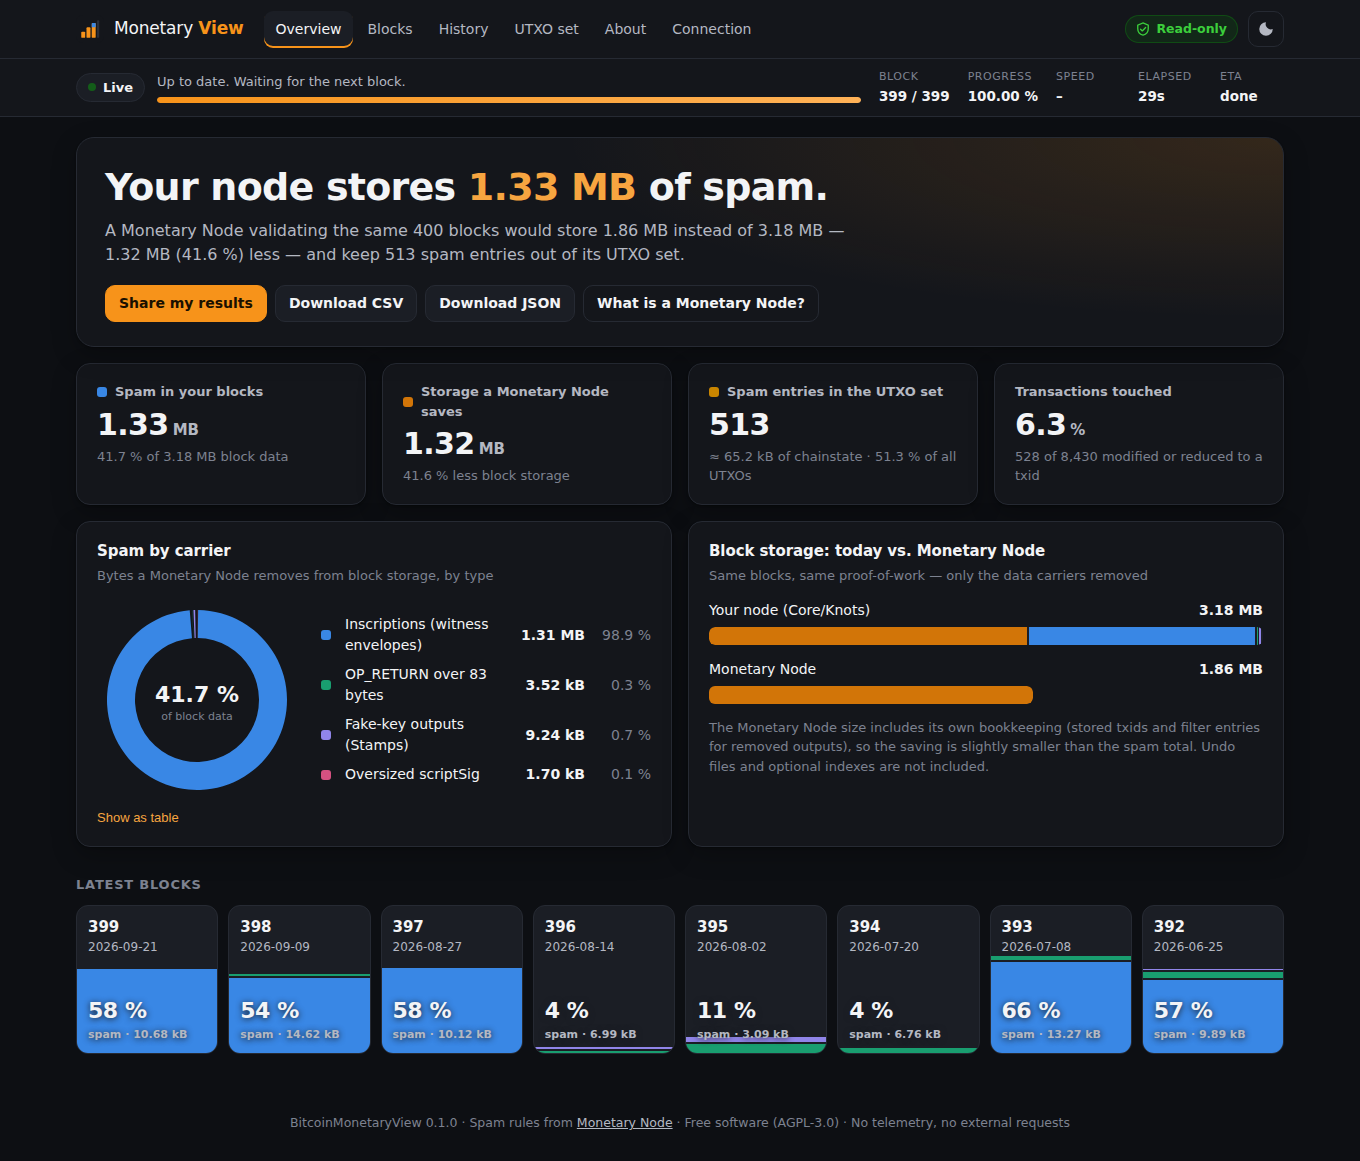
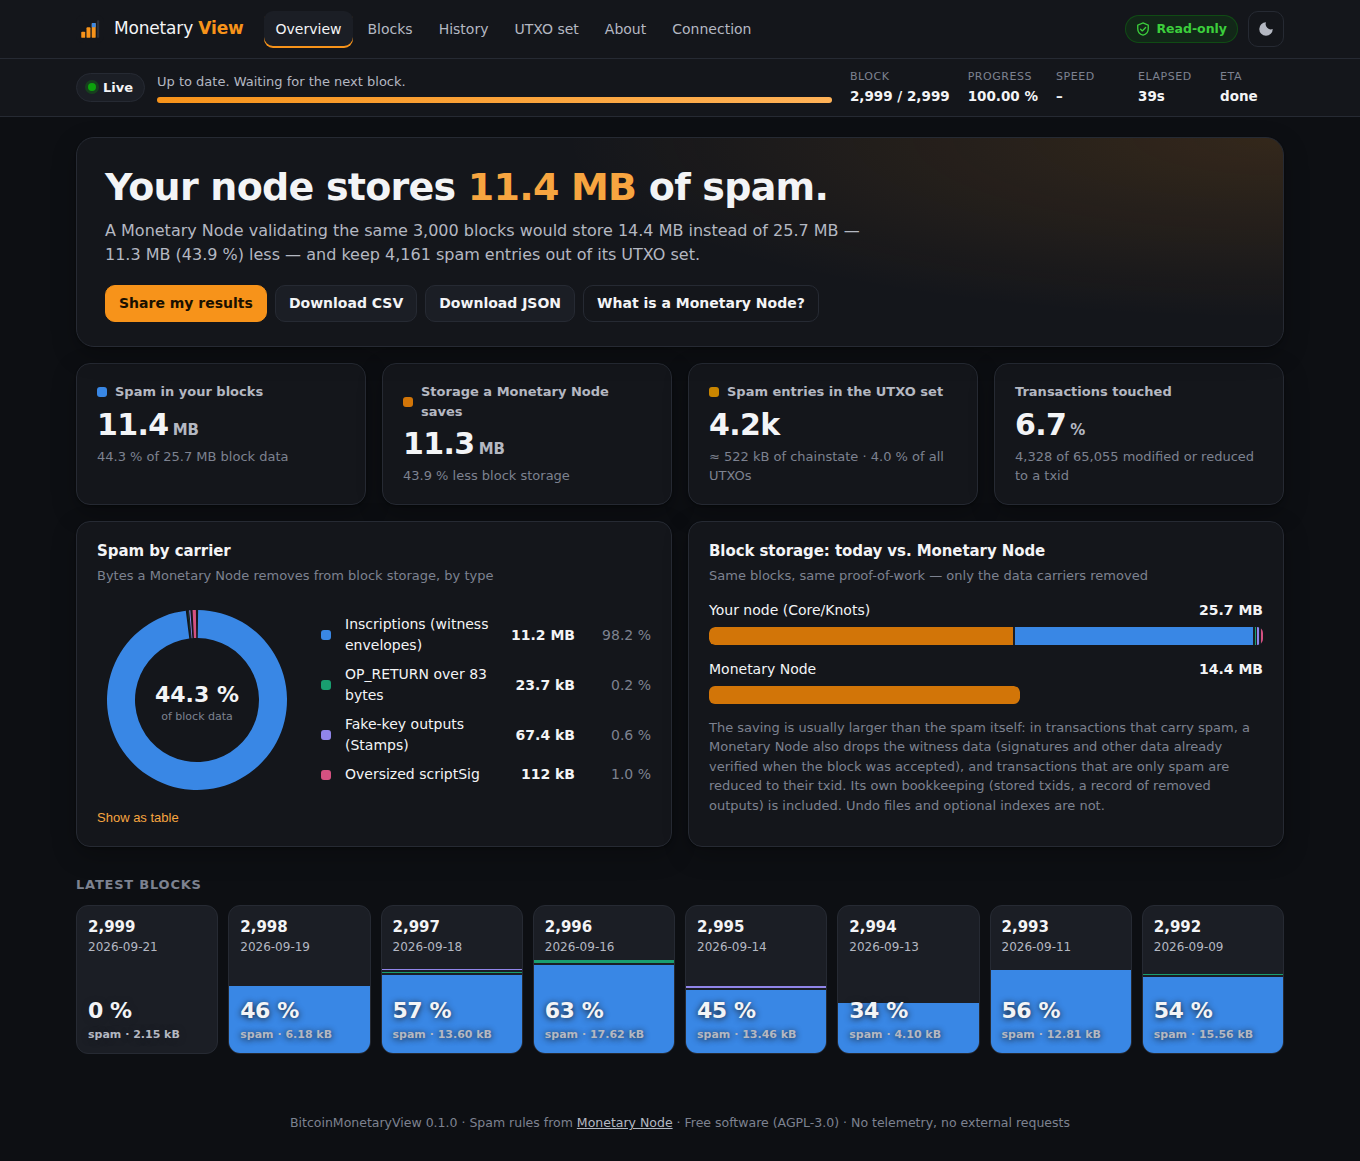
Pre-0.2.0 polish: phone tabs, share note, About sections, docs
- Phones: tabs wrap under the brand so UTXO set/About/Connection are visible
  (they were hidden in a scroll row without a scrollbar); topbar and status
  bar are not sticky there.
- Share dialog: note that the card is exact-only and, during the scan, partial;
  share text links BitcoinMonetaryView and the Monetary Node rules.
- About: 'Spam vs. storage saved' and 'While the scan is running'.
- History milestones: labels pick a free row or are dropped (line + tooltip
  kept) instead of overlapping. UTXO share hidden when the node's (stale)
  total is smaller than the live count. Softer UTXO age wording.
- Demo node reports a realistic UTXO count; README screenshot regenerated.
- README: Start9 download from Releases. SECURITY: on-demand lookup.
  CONTRIBUTING: Start9 release step.

Claude-Session: https://claude.ai/code/session_01E7wzJobv8ioFW8hq9u9yGK

diff --git a/bitcoinmonetaryview/static/app.js b/bitcoinmonetaryview/static/app.js
@@ -276,17 +276,21 @@
       svg.append(s("path", { class: `line s-surface`, d: top, "stroke-width": 1.5 }));
     });
     if (opts.milestones) {
-      let lastX = -1e9, level = 0;
+      const rowEnd = [-1e9, -1e9];          // right edge of the last label in each of the two label rows
       opts.milestones.forEach((ms) => {
         const i = rows.findIndex((r) => r.key >= ms.month);
         if (i < 0) return;
-        level = X(i) - lastX < 90 ? (level + 1) % 2 : 0;
-        lastX = X(i);
+        const x = X(i), w = ms.label.length * 6.2 + 8;
+        const level = rowEnd.findIndex((end) => x > end + 4);
         const g = s("g", { class: "milestone" });
-        g.append(s("line", { x1: X(i), x2: X(i), y1: m.t - 18 + level * 14, y2: m.t + ih }));
-        const t = s("text", { x: X(i) + 4, y: m.t - 22 + level * 14 });
-        t.textContent = ms.label;
-        g.append(t);
+        g.append(s("line", { x1: x, x2: x, y1: level < 0 ? m.t : m.t - 18 + level * 14, y2: m.t + ih }));
+        const tt = s("title"); tt.textContent = `${ms.label} (${ms.month})`; g.append(tt);
+        if (level >= 0 && x + w <= W) {
+          rowEnd[level] = x + w;
+          const t = s("text", { x: x + 4, y: m.t - 22 + level * 14 });
+          t.textContent = ms.label;
+          g.append(t);
+        }
         svg.append(g);
       });
     }
@@ -967,7 +971,7 @@
           h("p", { class: "sub", text: "A Monetary Node keeps these out of its UTXO database. Stamps outputs are removed from blocks too; P2TR dust stays in block storage, where it costs less, and is looked up there if it is ever spent." }),
           kindBars),
         h("div", { class: "card" }, h("h2", { text: "How old they are" }),
-          h("p", { class: "sub", text: "Spam outputs are almost never spent — they sit in RAM-hungry chainstate forever" }), bandBox)));
+          h("p", { class: "sub", text: "Spam outputs are rarely spent — most stay in the chainstate for years" }), bandBox)));
   }
 
   function viewAbout() {
@@ -994,6 +998,11 @@
         h("li", { text: "Transactions whose outputs were removed can no longer have their signatures re-verified from the stripped store (they were fully validated once, when the block arrived)." }),
         h("li", { text: "The dust figures are a proxy: they count small taproot outputs from the inscription era, which includes some ordinary small payments." }),
         h("li", { text: "Monetary Node is early-stage software. This app informs your decision; it does not make it for you." })),
+      h("h2", { text: "Spam vs. storage saved" }),
+      P("“Spam” counts only the data itself: inscription content, oversized OP_RETURN data, fake keys and oversized scriptSigs. “Storage saved” is the real difference in disk space, and it is usually larger: in a transaction that carries spam, a Monetary Node also drops the witness data (signatures already verified when the block arrived), and a transaction that is nothing but spam is reduced to its 32-byte txid. The Monetary Node's own bookkeeping is subtracted. Undo files and optional indexes are not counted on either side."),
+      h("h2", { text: "While the scan is running" }),
+      P("The full history scan reads every block in order, which takes hours (days in Eco mode). So that the first impression is not dominated by the early, almost spam-free years, the app first analyses the latest 1,000 blocks and then every 100th block of the rest. From that sample the overview shows an estimate for the whole chain (marked ≈) with its margin of error, next to the exact figure so far. The estimate is replaced by exact figures as the scan proceeds. History, Blocks, the UTXO set, the share card and the exports always show exact figures; parts of the history that are not scanned yet are marked as such."),
+      P("Any block can be opened on the Blocks page by its height or hash. If the scan has not reached it yet, “Analyse this block now” reads just that block from your node and shows its exact figures."),
       h("h2", { text: "Core, Knots and this app" }),
       P("Knots' mempool filters stop relaying spam, but spam that is already in blocks is stored by every full node — Core and Knots alike. The numbers here apply to both."),
       h("h2", { text: "Rules in use" }),
@@ -1157,7 +1166,7 @@
     return [`My Bitcoin node stores ${fmtBytes(sum.spam_bytes)} of spam — ${fmtPct(sum.spam_pct)} of its block data${full ? "" : " (in the blocks scanned so far)"}.`,
       sum.saved_bytes > 0 ? `A Monetary Node would store ${fmtBytes(sum.saved_bytes)} (${fmtPct(sum.saved_pct)}) less${sum.utxo.count ? ` and keep ${fmtNum(sum.utxo.count)} spam entries out of its UTXO set` : ""}.` : "",
       "Same blocks, same proof-of-work, every consensus rule validated.",
-      "Measured on my own node with BitcoinMonetaryView. https://github.com/sambitcoin/BitcoinMonetaryNode"].filter(Boolean).join(" ");
+      "Measured on my own node with BitcoinMonetaryView (https://github.com/MarkSierra/BitcoinMonetaryView) using the Monetary Node rules (https://github.com/sambitcoin/BitcoinMonetaryNode)."].filter(Boolean).join(" ");
   }
   function openShare() {
     const sum = S.summary;
@@ -1177,6 +1186,7 @@
     body.append(h("div", { class: "dlg" },
       h("div", { class: "dlg-head" }, h("h2", { text: "Share my results" }),
         h("button", { class: "icon-btn", type: "button", "aria-label": "Close", text: "✕", onclick: () => dlg.close() })),
+      sum.meta && sum.meta.full_done !== "1" ? notice("warn", "The share card uses exact figures only. While the full history scan runs, they cover only the part of the chain scanned so far — the estimate on the overview is not included. For your complete result, share again once the scan is finished.", null, "share-note") : null,
       img, ta,
       h("p", { class: "sub", style: { marginTop: "10px" }, text: "Created on this device — nothing is uploaded. Contains chain statistics only, nothing that identifies your node." }),
       h("div", { style: { display: "flex", gap: "8px", flexWrap: "wrap" } }, dl, copy)));

diff --git a/bitcoinmonetaryview/static/app.css b/bitcoinmonetaryview/static/app.css
@@ -180,6 +180,7 @@ a { color: var(--accent-ink); }
 .banner.error { border-color: color-mix(in srgb, var(--crit) 45%, var(--border)); }
 .banner.error .ico { background: var(--crit); color: #fff; }
 .banner.in-card { margin-top: 14px; font-size: 13.5px; line-height: 1.45; max-width: 900px; }
+.banner.share-note { margin-bottom: 12px; font-size: 13.5px; line-height: 1.45; }
 .banner.page-top { margin-bottom: 16px; line-height: 1.45; }
 .banner > div { min-width: 0; }
 
@@ -197,8 +198,12 @@ main { max-width: 1240px; width: 100%; margin: 0 auto; padding: 20px 16px 40px; 
   .span-2 { grid-column: auto; }
   .ro-badge .ro-text { display: none; }
   .status-metrics { gap: 12px; }
-  .topbar-inner { gap: 10px; }
-  .brand-name { display: none; }
+  /* phones: all six tabs visible (wrapped below the brand) instead of hidden in a scroll row */
+  .topbar, .statusbar { position: static; }
+  .topbar-inner { height: auto; flex-wrap: wrap; gap: 6px 10px; padding-top: 8px; padding-bottom: 8px; }
+  .topbar-right { margin-left: auto; }
+  .tabs { order: 3; flex-basis: 100%; flex-wrap: wrap; overflow: visible; }
+  .tabs a { padding: 6px 10px; }
 }
 .card {
   background: var(--surface); border: 1px solid var(--border); border-radius: var(--radius);

diff --git a/tests/mocknode.py b/tests/mocknode.py
@@ -201,8 +201,9 @@ class MockNode:
             time.sleep(self.delay)
             return ok(self.raw(i).hex())
         if m == "gettxoutsetinfo":
-            return ok({"height": len(blocks) - 1, "txouts": 1000, "bogosize": 100000,
-                       "disk_size": 50000, "total_amount": 21.0})
+            n = max(1000, len(blocks) * 35)
+            return ok({"height": len(blocks) - 1, "txouts": n, "bogosize": n * 100,
+                       "disk_size": n * 50, "total_amount": 21.0})
         return err(-32601, "Method not found")
 
     def stop(self):

diff --git a/bitcoinmonetaryview/analytics.py b/bitcoinmonetaryview/analytics.py
@@ -233,7 +233,7 @@ class Analytics:
             res["node_utxo"] = {"txouts": info.get("txouts"), "bogosize": info.get("bogosize"),
                                 "disk_size": info.get("disk_size"), "height": info.get("height"),
                                 "time": float(m.get("utxo_info_time", 0))}
-            if info.get("txouts"):
+            if info.get("txouts") and total_c <= info["txouts"]:
                 res["share_of_entries_pct"] = total_c / info["txouts"] * 100
         return res
 

diff --git a/CHANGELOG.md b/CHANGELOG.md
@@ -21,6 +21,14 @@ All notable changes are documented here. This project uses [semantic versioning]
   totals stay current (previously they froze until the scan reached the tip).
 - All notes in page content use one style (the bordered banner of the UTXO page); the "managed by StartOS"
   note appears only on the Connection page.
+- Phones: all six tabs are visible (wrapped under the brand) instead of three hidden in a scroll row.
+- Share dialog: explains that the card uses exact figures only and, during the scan, covers only the part
+  scanned so far; the share text links this app too.
+- About: new sections "Spam vs. storage saved" and "While the scan is running".
+- History: milestone labels no longer overlap on narrow screens (a label that does not fit keeps its line and
+  a tooltip). UTXO: the share of all UTXOs is hidden if the node's figure is older and smaller than the live
+  count.
+- Docs: README screenshot, Start9 download from Releases, SECURITY (on-demand lookup), release steps.
 - Dashboard: the progress bar no longer animates (the animation kept the GPU drawing ~19 frames per second
   during a scan), and background data refreshes swap the content without the fade-in and only when the data
   actually changed, so the page no longer appears to reload every few seconds.

diff --git a/README.md b/README.md
@@ -66,8 +66,9 @@ when it detects plain HTTP to another machine.
 
 **Native package (StartOS 0.4):** [BitcoinMonetaryView-startos](https://github.com/MarkSierra/BitcoinMonetaryView-startos)
 runs the app on your Start9 next to Bitcoin Core / Knots, connects automatically and needs no setup. It is not
-in the Start9 marketplace yet: download the `.s9pk` for your architecture from that repo's latest *Build* run
-(Actions → Build → Artifacts) and install it via System → Sideload. Updates keep your scan results.
+in the Start9 marketplace yet: download the `.s9pk` for your architecture from that repo's
+[Releases](https://github.com/MarkSierra/BitcoinMonetaryView-startos/releases) and install it via System →
+Sideload. Updates keep your scan results.
 
 **From another computer:** use the RPC connection details shown in your Bitcoin Core / Knots service
 (Interfaces / Properties). StartOS serves LAN RPC over HTTPS with its own certificate authority: download your

diff --git a/CONTRIBUTING.md b/CONTRIBUTING.md
@@ -23,6 +23,7 @@ Thanks for helping! A few ground rules keep this project trustworthy:
    x86_64 and ARM64 (tags `X.Y.Z`, `X.Y`, `latest`). The package is public.
 4. StartOS: in [BitcoinMonetaryView-startos](https://github.com/MarkSierra/BitcoinMonetaryView-startos), move the
    `upstream` submodule to the release, bump the package version and release notes in
-   `startos/versions/current.ts`, and run its *Build* workflow (see its `UPDATING.md`).
+   `startos/versions/current.ts` (`X.Y.Z:0`), then publish a GitHub release there with tag `vX.Y.Z.0`: its
+   *Release* workflow attaches both `.s9pk` files permanently (see its `UPDATING.md`).
 
 By contributing you agree that your contribution is licensed under the AGPL-3.0-or-later.

diff --git a/SECURITY.md b/SECURITY.md
@@ -20,4 +20,7 @@ You can expect an acknowledgement within a few days. Fixes are released as a new
 - Every block is verified (hash, merkle root, witness commitment) before it is counted.
 - Web interface: localhost by default, optional basic auth and TLS, CSRF tokens on state-changing requests,
   Host allowlist against DNS rebinding, strict Content-Security-Policy, no secrets in API responses or logs.
+- "Analyse this block now" reads exactly one block through the same whitelisted client, verifies it, keeps the
+  result in memory only (never in the scan database), and is CSRF-protected, one request at a time with a
+  cooldown.
 - No external network requests besides your node.
